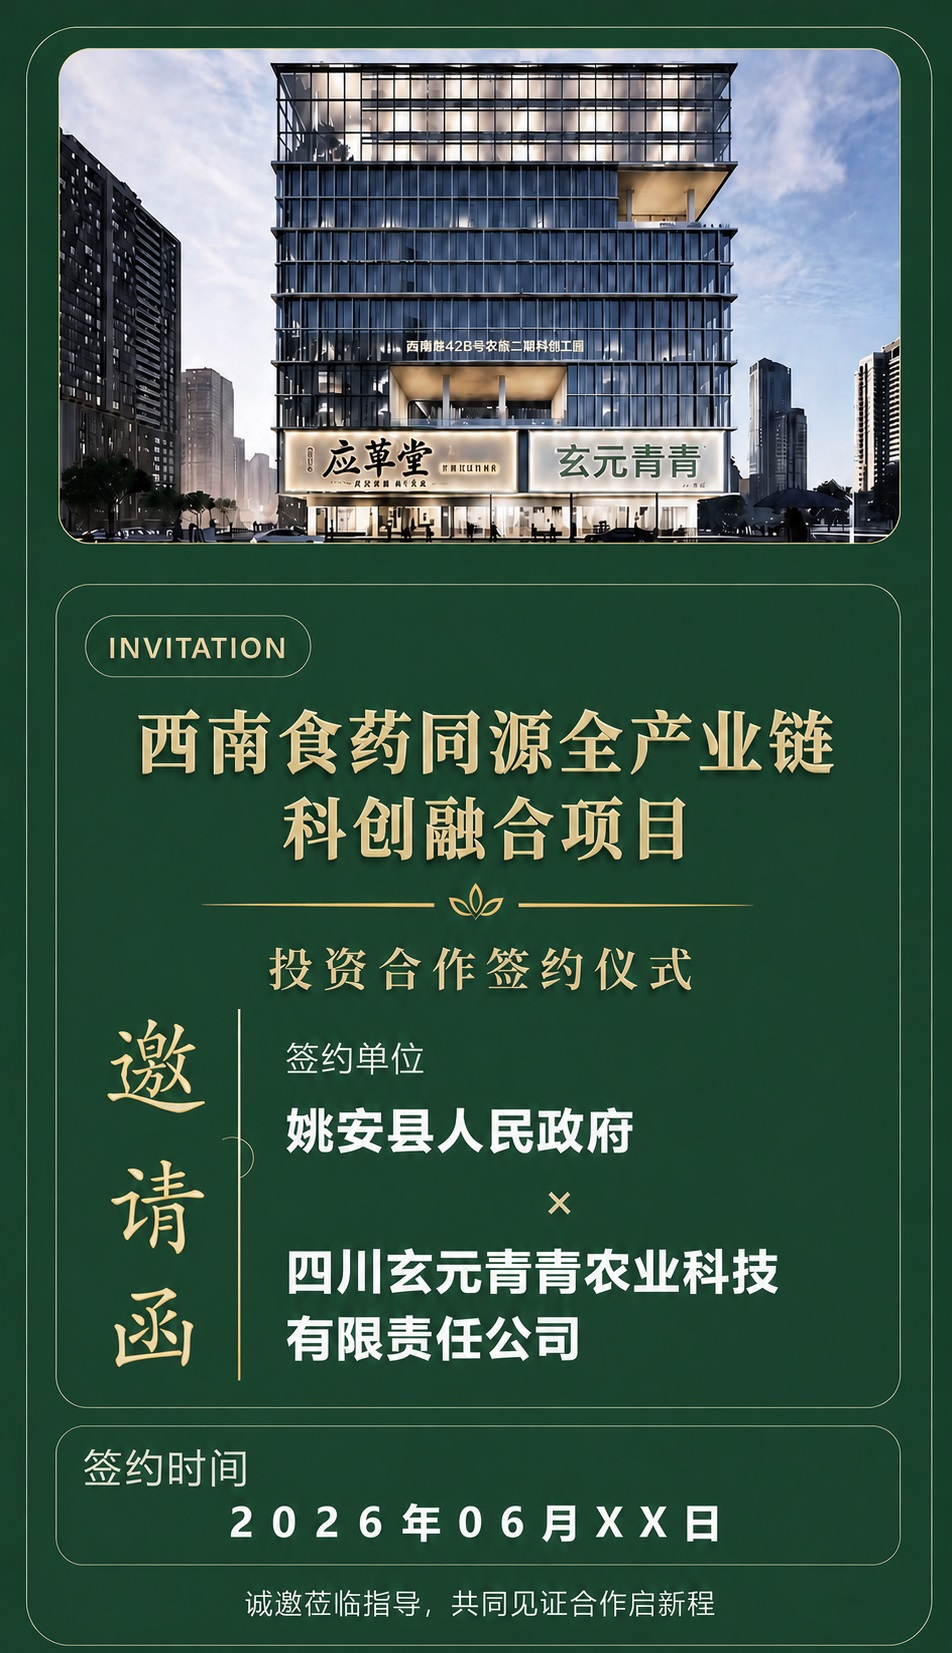
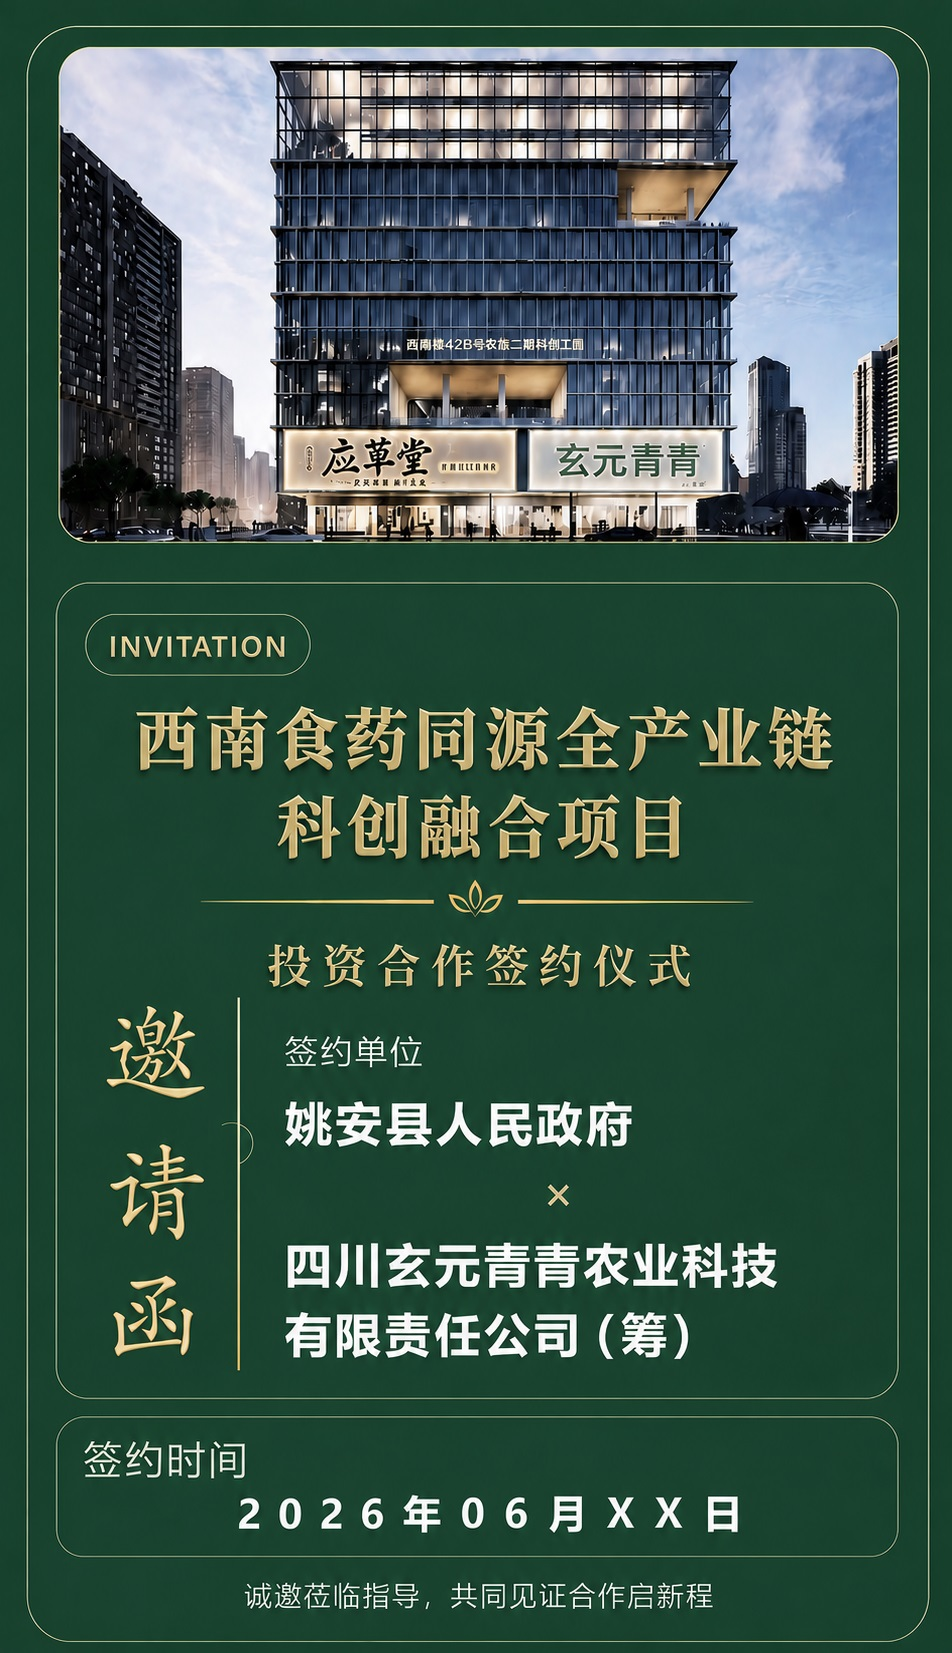
feat: 更新邀请函主视觉与政企文案

diff --git a/index.html b/index.html
@@ -208,7 +208,7 @@
               <span class="fold-title">政府</span>
             </summary>
             <div class="fold-body">
-              <p>项目顺应健康中国、中医药传承创新、乡村振兴及区域产业升级方向，依托姚安县良好的区位、生态和营商服务环境，具备明确的政策协同性与社会价值。</p>
+              <p>项目贴合健康中国、中医药创新、乡村振兴导向，依托姚安区位生态与营商优势，兼具政策与社会价值。</p>
             </div>
           </details>
           <details class="fold-card fold-article">
@@ -217,7 +217,7 @@
               <span class="fold-title">企业</span>
             </summary>
             <div class="fold-body">
-              <p>玄元青青与合作主体以项目制、平台化、长期主义推进落地，强调研究院、示范基地、品牌平台和人才平台同步建设，体现“说到做到”的组织能力。</p>
+              <p>玄元青青采用项目+平台长效落地，统筹科研、基地、品牌、人才四大平台，凭借落地能力稳步落地项目。</p>
             </div>
           </details>
           <details class="fold-card fold-article">
@@ -226,7 +226,7 @@
               <span class="fold-title">标准</span>
             </summary>
             <div class="fold-body">
-              <p>项目明确以标准化种植、全程质量控制、数字溯源和智能制造为基础，回应市场对安全、稳定、可追溯的核心要求。</p>
+              <p>推行标准化种植、低碳生产与全链路溯源，严控品质；依托精深加工与科研，筑牢品质与高端渠道优势。</p>
             </div>
           </details>
           <details class="fold-card fold-article">
@@ -235,24 +235,9 @@
               <span class="fold-title">消费</span>
             </summary>
             <div class="fold-body">
-              <p>从原料品质、功效证据、产品体验到品牌表达，项目强调“让消费者愿意复购”的长期信任，而不是短期宣传。</p>
+              <p>打磨产品功效、形态与使用场景，以过硬品质沉淀用户信任，依靠复购长效发展。</p>
             </div>
           </details>
-        </div>
-        <div class="quality-board">
-          <div class="copy-panel">
-            <h3>以标准与质量，赢消费者的心</h3>
-            <ul class="feature-list">
-              <li>以标准化种源和规范化种植减少品质波动，让产品更稳定、更安心。</li>
-              <li>以绿色防控、低碳生产和全程溯源体系，建立“看得见来路、查得到过程”的透明信任。</li>
-              <li>以精深加工和科学证据支撑，提升产品功能表达与高端渠道准入能力。</li>
-              <li>以更便捷的产品形态、更明确的消费场景和更高级的品牌审美，提升消费者认同感与复购率。</li>
-            </ul>
-          </div>
-          <figure class="visual-panel">
-            <img src="closing-visual.jpg" alt="政企协同与品质承诺视觉页" class="full-image framed inset-image" loading="lazy" decoding="async" />
-            <figcaption>质量体系、品牌美学与政企协同共同构成项目的长期信任资产。</figcaption>
-          </figure>
         </div>
       </div>
     </section>
